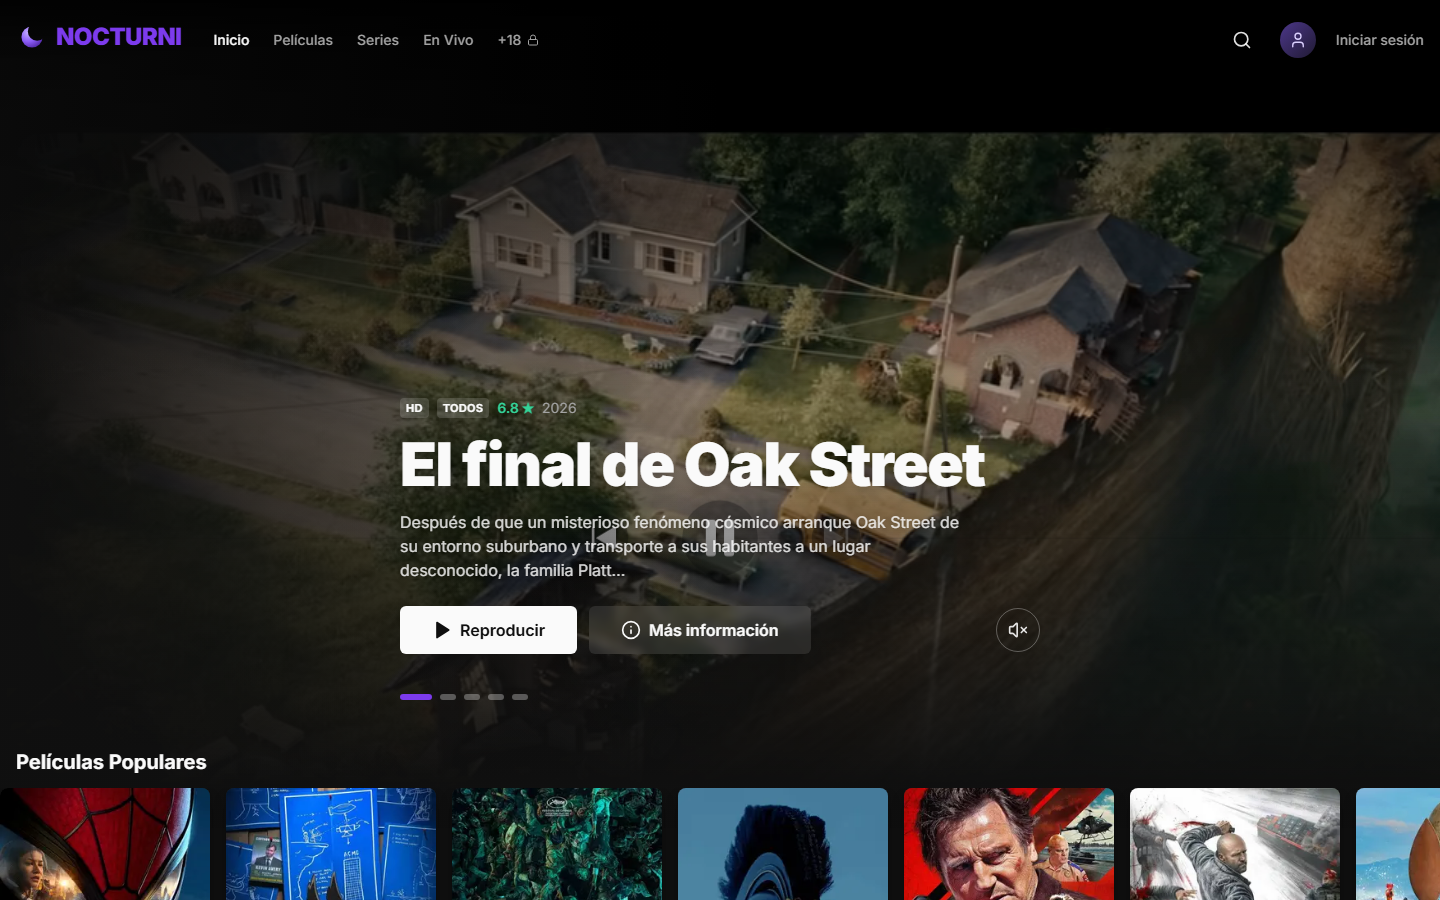
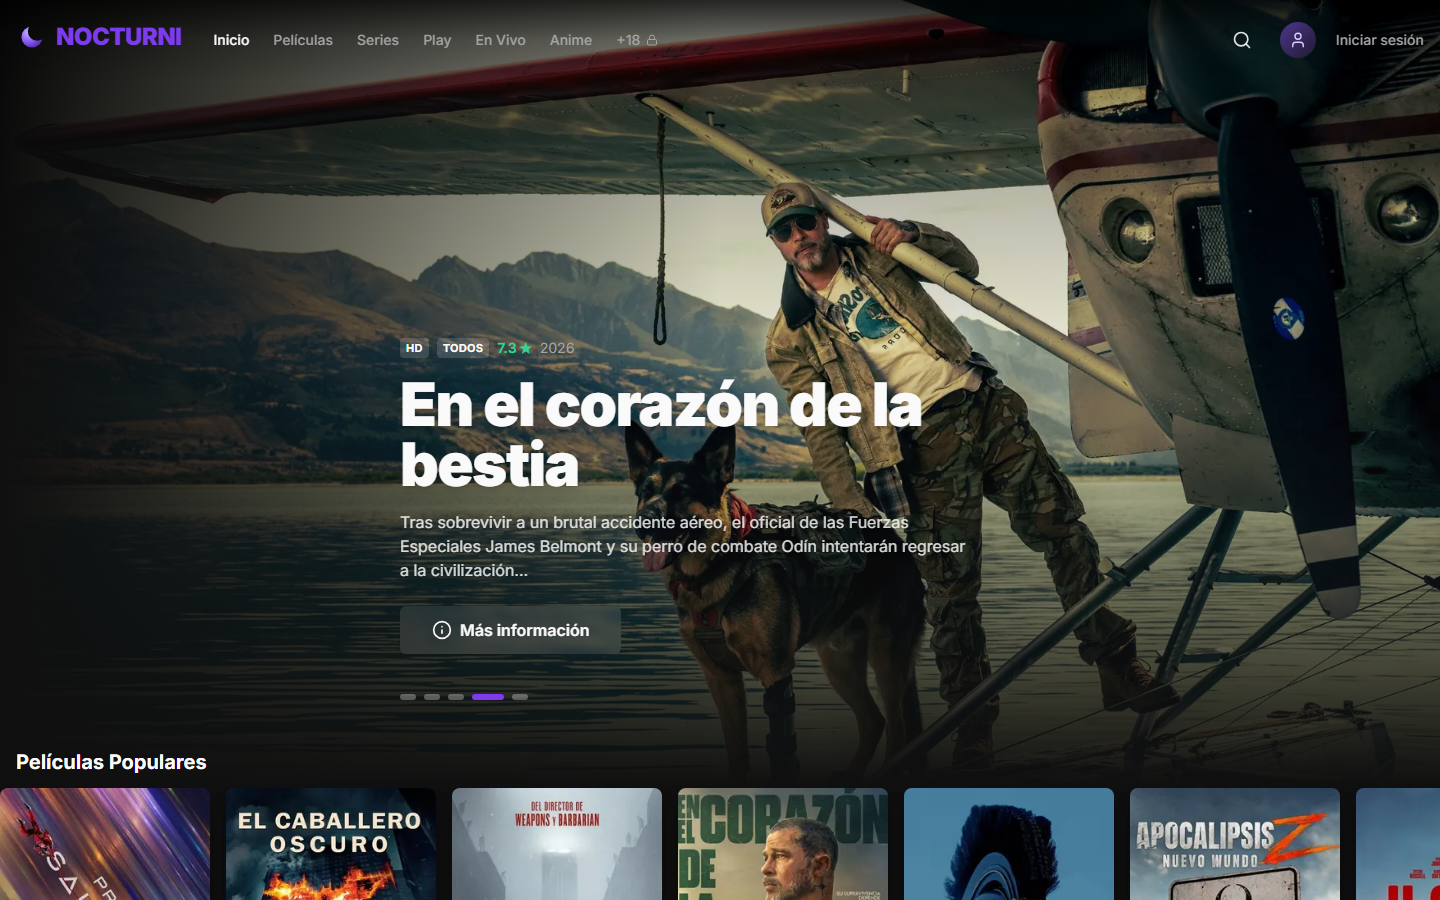
Nocturni: capturas nuevas de inicio, TV en vivo y anime con filtros

diff --git a/src/content/projects.ts b/src/content/projects.ts
@@ -1542,25 +1542,28 @@ export const projects: Project[] = [
       },
     ],
     gallery: [
+      "/images/nocturni/home.png",
       "/images/nocturni/play.png",
       "/images/nocturni/donde-ver.png",
       "/images/nocturni/live.png",
-      "/images/nocturni/home.png",
+      "/images/nocturni/anime.png",
       "/images/nocturni/movies.png",
     ],
     galleryAlt: {
       en: [
+        "Nocturni home with a featured-title hero banner that only offers More information, because the title has no internal playback source, and a Popular Movies row",
         "Nocturni Play page showing 16,080 verified titles with a row of classic series and a row of films, each card tagged En Nocturni",
         "Watch page for The Matrix in Nocturni saying the title has no internal source, with a Where to watch section that lists HBO Max for the Dominican Republic and a JustWatch attribution",
         "Live TV page in Nocturni with search and country and category filters, and a Featured row of international broadcasters such as Bloomberg, Red Bull TV, DW, CNN en Español and Euronews",
-        "Nocturni home with a featured-title hero banner and a Popular Movies row",
+        "Anime page in Nocturni filtered by Comedy, TV format, year 2022 and best rated, with a grid of covers from AniList",
         "Movies page in Nocturni with Popular, Top Rated and Now Playing tabs, genre filters and a grid of posters",
       ],
       es: [
+        "Inicio de Nocturni con un banner de título destacado que solo ofrece Más información, porque el título no tiene fuente de reproducción interna, y una fila de películas populares",
         "Página de Nocturni Play con 16.080 títulos verificados, una fila de series clásicas y una de películas, cada tarjeta con la etiqueta En Nocturni",
         "Página de reproducción de Matrix en Nocturni que dice que el título no tiene fuente interna, con una sección Dónde ver que lista HBO Max para República Dominicana y la atribución a JustWatch",
         "Página de TV en vivo de Nocturni con búsqueda y filtros por país y categoría, y una fila de destacados con emisoras internacionales como Bloomberg, Red Bull TV, DW, CNN en Español y Euronews",
-        "Inicio de Nocturni con un banner de título destacado y una fila de películas populares",
+        "Página de anime de Nocturni filtrada por comedia, formato TV, año 2022 y mejor valorados, con una cuadrícula de portadas de AniList",
         "Página de películas de Nocturni con pestañas de populares, mejor valoradas y en cartelera, filtros por género y una cuadrícula de pósters",
       ],
     },
